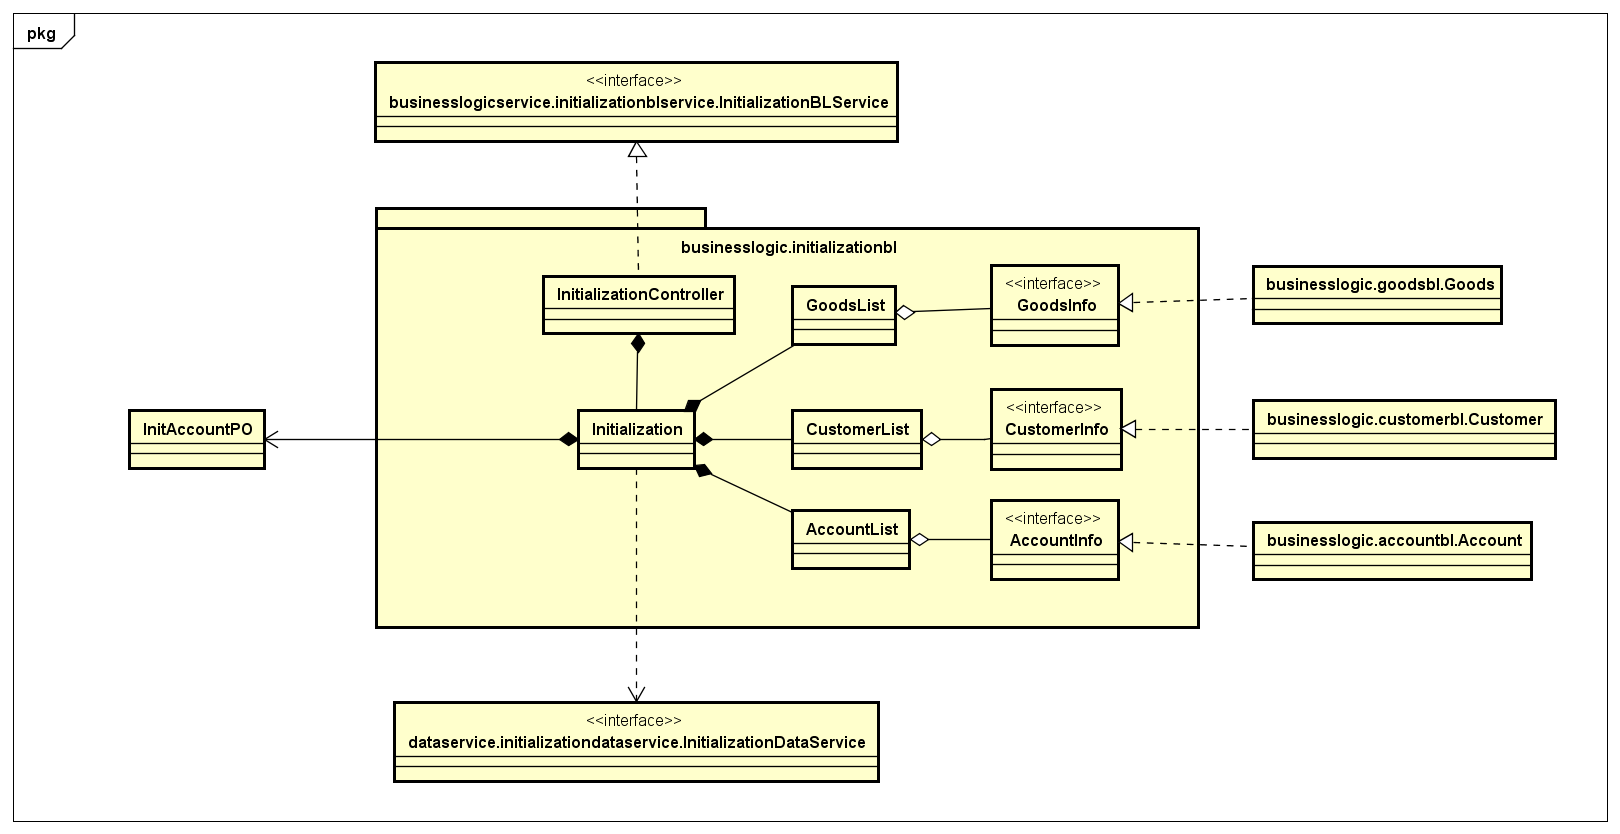
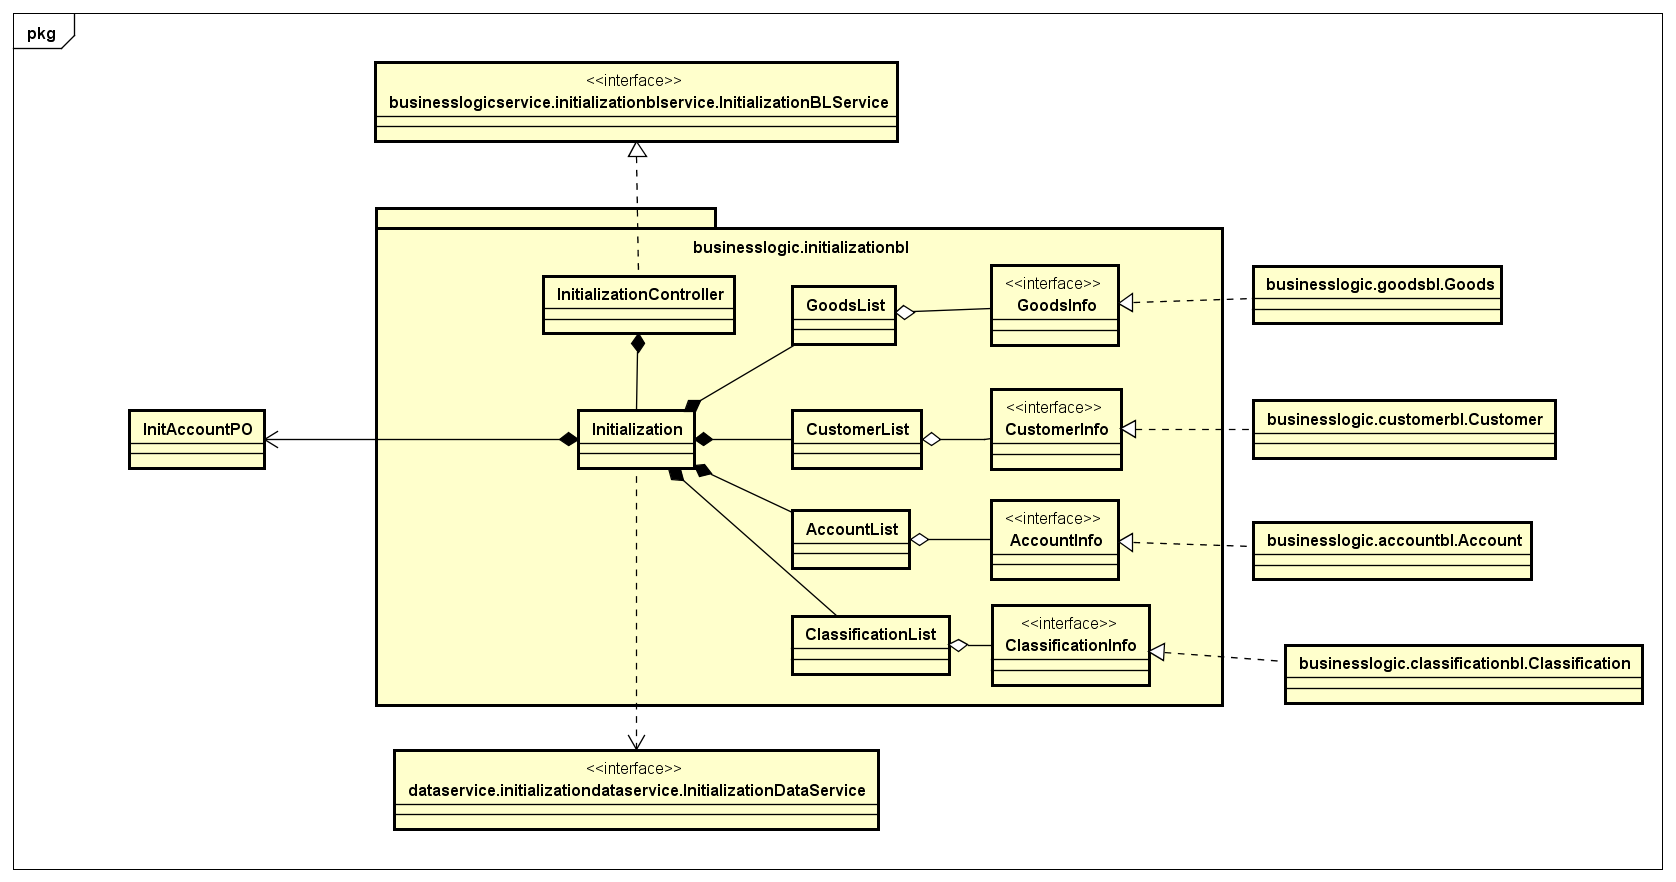
写了一点

Changed region(s): [[0.0617, 0.2182, 0.9877, 0.9664], [0.216, 0.0624, 0.5556, 0.1871], [0.0, 0.0, 0.0617, 0.0624]]

diff --git a/doc/灯具进销存管理系统（软件详细设计描述文档 v1.0）.md b/doc/灯具进销存管理系统（软件详细设计描述文档 v1.0）.md
@@ -191,22 +191,99 @@ financebl 模块的职责及接口参见软件系统体系结构描述文档表5
 
 （2）整体结构 
 
-根据体系结构的设计，我们将系统分为展示层、业务逻辑层、数据层。每一层之间为了增加灵活性，我们会添加接口。在展示层和业务逻辑层之间，我们添加FinanceBLService接口。在业务逻辑层和数据层之间，我们添加FinanceDataService接口。为了隔离业务逻辑职责和逻辑控制职责，我们增加了FinanceController，这样FinanceController会将对银行账户的业务逻辑处理委托给Finance对象。AccountBillPO和CashBillPO是作为收付款单和现金费用单的持久化对象被添加到设计模型中去的。AccountBillItemPO和CashBillItemPO是作为转账列表和条目清单的持久化对象被添加到设计模型中去的。AccountBillItem
+根据体系结构的设计，我们将系统分为展示层、业务逻辑层、数据层。每一层之间为了增加灵活性，我们会添加接口。在展示层和业务逻辑层之间，我们添加FinanceBLService接口。在业务逻辑层和数据层之间，我们添加FinanceDataService接口。为了隔离业务逻辑职责和逻辑控制职责，我们增加了FinanceController，这样FinanceController会将对财务单据和财务报表的业务逻辑处理委托给Finance对象。AccountBillPO和CashBillPO是作为收付款单和现金费用单的持久化对象被添加到设计模型中去的。AccountBillItemPO和CashBillItemPO是作为转账列表和条目清单的持久化对象被添加到设计模型中去的。AccountBillItem保有银行账户名称、转账金额和备注的数据。CashBillItem保有条目名、金额、备注的数据。AccountBill负责管理AccountBillItem，并有计算总额汇总的职责。CashBillItem负责管理CashBillItem，并有计算总额汇总的职责。SalesDetails负责管理SalesDetailsItem，并有生成和导出销售明细表的职责。Profit负责生成和导出经营情况表。DocumentDetails负责生成和导出经营历程表。UserInfo、AccountInfo、CustomerInfo、InventoryInfo、SalesInfo都是根据依赖倒置原则，为了消除循环依赖而产生的接口。
 
 * financebl模块的设计如图所示
 
 ![](http://101.37.19.32:10080/horizon/LampManager/raw/develop/doc/img/%E8%AF%A6%E7%BB%86%E8%AE%BE%E8%AE%A1%E5%9B%BE/financebl%E8%AE%BE%E8%AE%A1%E6%A8%A1%E5%9E%8B%20.png)
 
+- financebl 模块个各类的职责如表所示
+
+| 模块                | 职责                                       |
+| ----------------- | ---------------------------------------- |
+| FinanceController | 负责实现财务管理界面所需要的服务                         |
+| Finance           | 管理财务单据和财务报表的领域模型对象，拥有收付款单、现金费用单和销售明细表、经营历程表、经营情况表等信息，可以帮助完成财务管理界面所需要的服务 |
+| FinanceBill       | 负责实现收款单、付款单和现金费用单的制定                     |
+| AccountBill       | 收款单和付款单的领域模型，拥有一次制定单据所持有的单据编号，操作员，客户名称，转账列表和总额汇总信息，可以帮助完成制定财务单据界面所需要的服务 |
+| CashBill          | 现金费用单的领域模型，拥有一次制定单据所持有的单据编号，操作员，银行账户，条目清单和总额汇总信息，可以帮助完成制定财务单据界面所需要的服务 |
+| AccountBillItem   | 转账列表中的一项                                 |
+| CashBillItem      | 条目清单中的一项                                 |
+| SalesDetails      | 销售明细表的领域模型，可以帮助完成财务报表界面所需要的服务            |
+| SalesDetailsItem  | 商品销售记录中的一条                               |
+| DocumentDetails   | 经营历程表的领域模型，可以帮助完成财务报表界面所需要的服务            |
+| Profit            | 经营情况表的领域模型，可以帮助完成财务报表界面所需要的服务            |
+
+（3）模块内部类的接口规范
+
+FinanceController和Finance的接口规范如表所示
+
+- 表 FinanceController 的接口规范
+
+| 提供的服务（供接口）                   |      |                                   |
+| ---------------------------- | ---- | --------------------------------- |
+| AccountController.addAccount | 语法   | public ResultMessage addAccount() |
+|                              | 前置条件 |                                   |
+|                              | 后置条件 |                                   |
+
+| 需要的服务名 | 需要的服务 |
+| ------ | ----- |
+|        |       |
+|        |       |
+|        |       |
+
+（4）业务逻辑层的动态模型
+
 如图表明了当财务人员新建收付款单之后，财务业务逻辑处理的相关对象之间的协作
 
 ![](http://101.37.19.32:10080/horizon/LampManager/raw/develop/doc/img/%E8%AF%A6%E7%BB%86%E8%AE%BE%E8%AE%A1%E5%9B%BE/financebl%E9%A1%BA%E5%BA%8F%E5%9B%BE1.png)
 
-
 ### 4.1.8 initializationbl模块
+
+（1）模块概述
+
+initializationbl 模块承担的需求参见需求规格说明文档功能需求及相关非功能需求
+
+initializationbl 模块的职责及接口参见软件系统体系结构描述文档表5.3.2-5
+
+（2）整体结构 
+
+根据体系结构的设计，我们将系统分为展示层、业务逻辑层、数据层。每一层之间为了增加灵活性，我们会添加接口。在展示层和业务逻辑层之间，我们添加InitializationBLService接口。在业务逻辑层和数据层之间，我们添加InitializationDataService接口。为了隔离业务逻辑职责和逻辑控制职责，我们增加了InitializationController，这样InitializationController会将对期初建账的业务逻辑处理委托给Initialization对象。InitAccountPO是作为期初建账的持久化对象被添加到设计模型中去的。GoodsList、CustomerList、ClassificationList和AccountList分别负责管理商品列表、客户列表和银行账户列表。GoodsInfo、AccountInfo、CustomerInfo、ClassificationInfo都是根据依赖倒置原则，为了消除循环依赖而产生的接口。
 
 * initializationbl模块的设计如图所示
 
 ![](http://101.37.19.32:10080/horizon/LampManager/raw/develop/doc/img/%E8%AF%A6%E7%BB%86%E8%AE%BE%E8%AE%A1%E5%9B%BE/initializationbl%E8%AE%BE%E8%AE%A1%E6%A8%A1%E5%9E%8B.png)
+
+- initializationbl 模块个各类的职责如表所示
+
+| 模块                       | 职责                                       |
+| ------------------------ | ---------------------------------------- |
+| InitializationController | 负责实现期初建账界面所需要的服务                         |
+| Initialization           | 期初建账的领域模型对象，拥有客户列表、银行账户列表、分类列表和商品列表等信息，可以帮助完成期初建账界面所需要的服务 |
+| GoodsList                | 负责实现商品信息列表的生成                            |
+| ClassificationList       | 负责实现分类信息列表的生成                            |
+| AccountList              | 负责实现账户信息列表的生成                            |
+| CustomerList             | 负责实现客户信息列表的生成                            |
+
+（3）模块内部类的接口规范
+
+InitializationController和Initialization的接口规范如表所示
+
+- 表 InitializationController 的接口规范
+
+| 提供的服务（供接口）                          |      |                                   |
+| ----------------------------------- | ---- | --------------------------------- |
+| InitializationController.addAccount | 语法   | public ResultMessage addAccount() |
+|                                     | 前置条件 |                                   |
+|                                     | 后置条件 |                                   |
+
+| 需要的服务名 | 需要的服务 |
+| ------ | ----- |
+|        |       |
+|        |       |
+|        |       |
+
+（4）业务逻辑层的动态模型
+
 如图表明了当财务人员输入新的期初建账信息后，期初建账业务逻辑处理的相关对象之间的协作
 
 ![](http://101.37.19.32:10080/horizon/LampManager/raw/develop/doc/img/%E8%AF%A6%E7%BB%86%E8%AE%BE%E8%AE%A1%E5%9B%BE/initializationbl%E9%A1%BA%E5%BA%8F%E5%9B%BE1.png)
